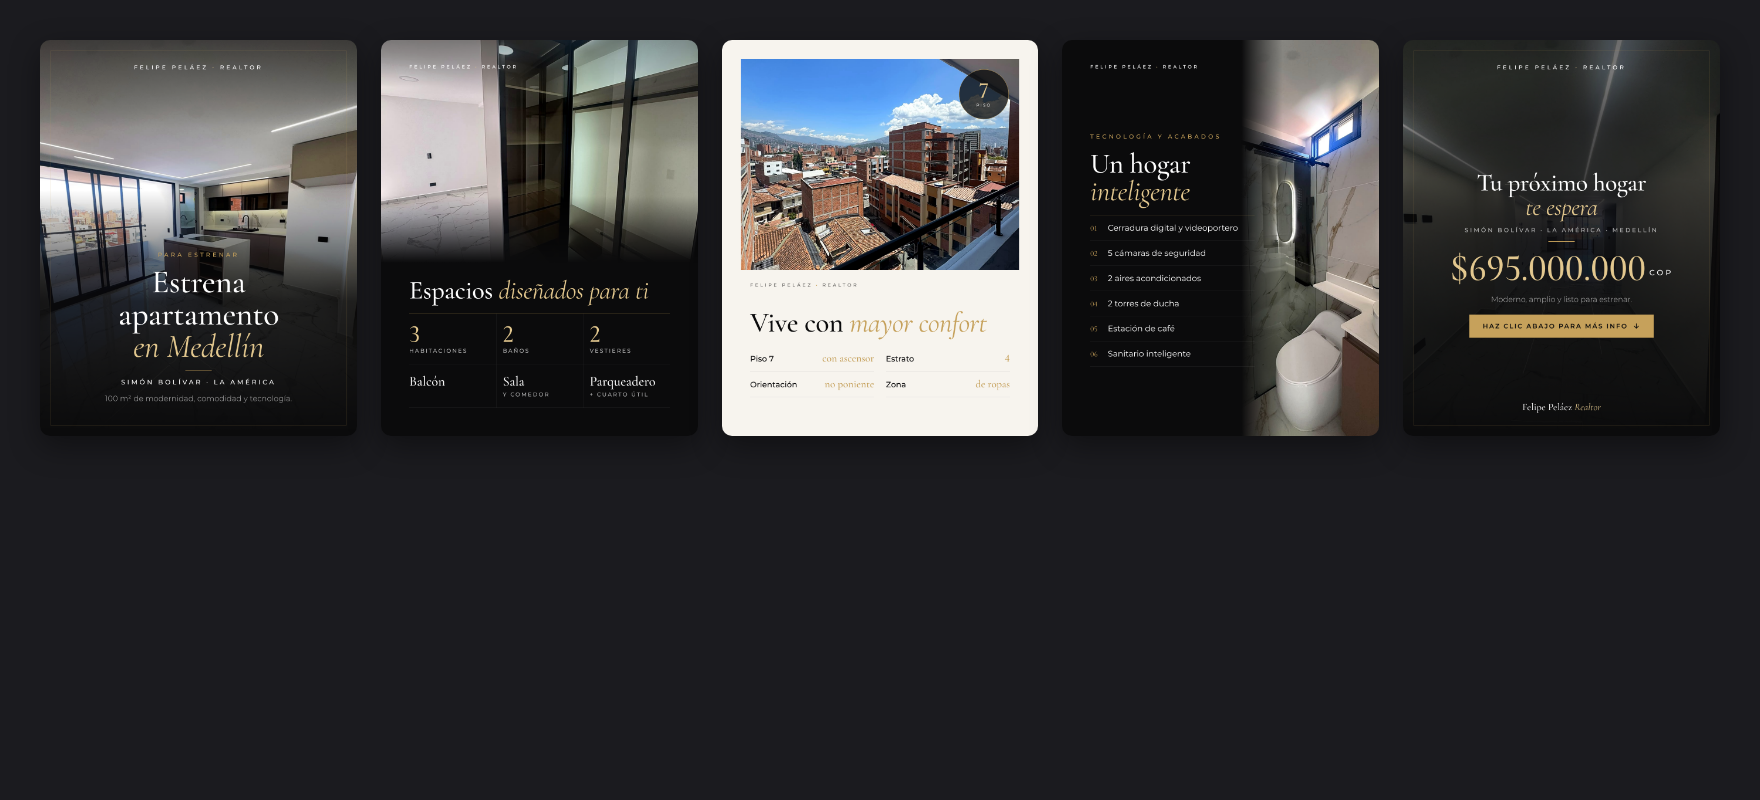
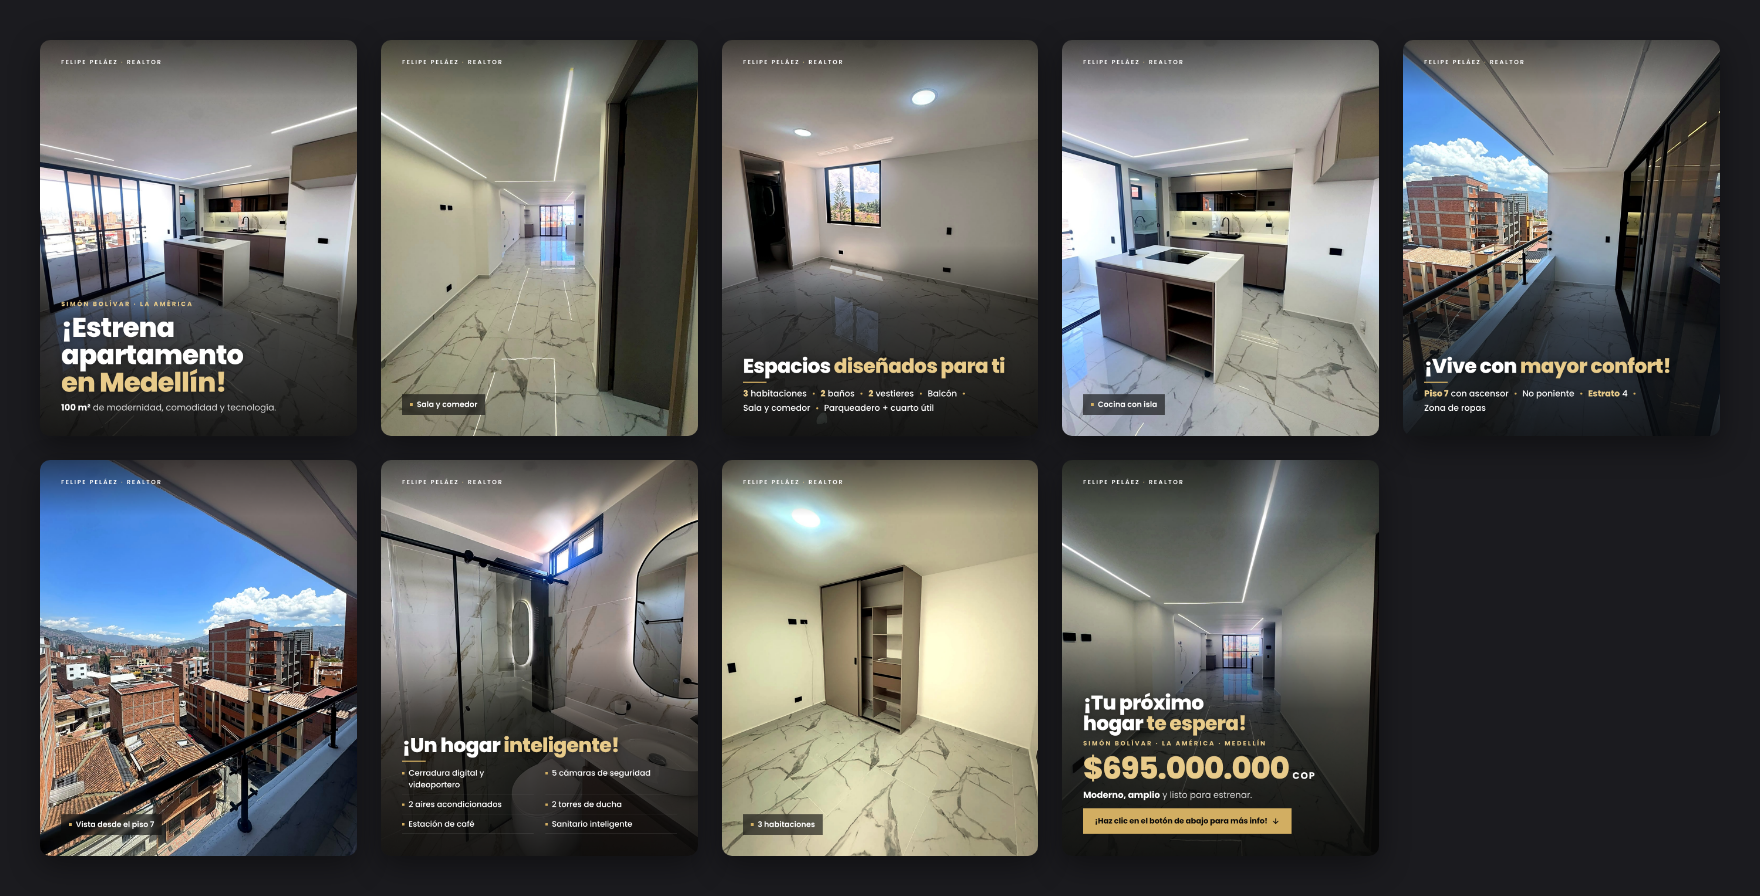
Carrusel de Felipe v2: el apartamento como protagonista
9 slides con fotos a sangre y degradado solo en la franja del texto,
slides de solo foto intercalados, Poppins con negritas y acentos dorados.

Claude-Session: https://claude.ai/code/session_01Ej8Qu3LQLaQzy4gu2zPZyZ

diff --git a/carruseles/proyectos/04-felipe/carrusel.html b/carruseles/proyectos/04-felipe/carrusel.html
@@ -4,200 +4,171 @@
 <meta charset="UTF-8">
 <title>Carrusel ADS · Apartamento Simón Bolívar – La América (Felipe Peláez)</title>
 <!--
-  Brief
-  Cliente: Felipe Peláez, Realtor (marca propia, no la de Raquel)
-  Uso: campaña de ADS en Meta. 5 slides 1080×1350
-  Estilo: minimalista y elegante. Negro, dorado y blanco. Sin iconos ni emojis:
-          jerarquía con tipografía (Cormorant Garamond + Montserrat) y filetes dorados.
-  Fotos: drive/ (24 originales) → img/ (5 elegidas con retoque suave)
+  Brief (versión 2, según comentarios de Raquel)
+  Cliente: Felipe Peláez, Realtor. Campaña de ADS en Meta, 9 slides 1080×1350
+  Regla principal: el apartamento es el protagonista. Fotos a sangre, degradado
+  solo en la franja del texto, slides de solo foto entre los de información.
+  Estilo: negro, dorado y blanco. Poppins con negritas para resaltar. Sin iconos.
+  Orden: lo más impactante primero (cocina, recorrido, sala).
 -->
 <style>
-@font-face { font-family: 'Cormorant'; font-weight: 400; src: url('../../fonts/CormorantGaramond-400.ttf'); }
-@font-face { font-family: 'Cormorant'; font-weight: 500; src: url('../../fonts/CormorantGaramond-500.ttf'); }
-@font-face { font-family: 'Cormorant'; font-weight: 600; src: url('../../fonts/CormorantGaramond-600.ttf'); }
-@font-face { font-family: 'Cormorant'; font-weight: 400; font-style: italic; src: url('../../fonts/CormorantGaramond-400-italic.ttf'); }
-@font-face { font-family: 'Cormorant'; font-weight: 500; font-style: italic; src: url('../../fonts/CormorantGaramond-500-italic.ttf'); }
-@font-face { font-family: 'Montserrat'; font-weight: 300; src: url('../../fonts/Montserrat-300.ttf'); }
-@font-face { font-family: 'Montserrat'; font-weight: 400; src: url('../../fonts/Montserrat-400.ttf'); }
-@font-face { font-family: 'Montserrat'; font-weight: 500; src: url('../../fonts/Montserrat-500.ttf'); }
-@font-face { font-family: 'Montserrat'; font-weight: 600; src: url('../../fonts/Montserrat-600.ttf'); }
+@font-face { font-family: 'Poppins'; font-weight: 400; src: url('../../fonts/Poppins-400.ttf'); }
+@font-face { font-family: 'Poppins'; font-weight: 500; src: url('../../fonts/Poppins-500.ttf'); }
+@font-face { font-family: 'Poppins'; font-weight: 600; src: url('../../fonts/Poppins-600.ttf'); }
+@font-face { font-family: 'Poppins'; font-weight: 700; src: url('../../fonts/Poppins-700.ttf'); }
+@font-face { font-family: 'Poppins'; font-weight: 800; src: url('../../fonts/Poppins-800.ttf'); }
 
-:root {
-  --black: #0B0B0C; --black-2: #141415; --white: #FFFFFF; --ivory: #F7F4EE;
-  --gold: #C6A15B; --gold-2: #E3C88F; --muted-d: rgba(255,255,255,0.68); --muted-l: rgba(11,11,12,0.62);
-  --serif: 'Cormorant', Georgia, serif; --sans: 'Montserrat', system-ui, sans-serif;
-}
+:root { --black: #0A0A0A; --white: #FFFFFF; --gold: #D2AE62; --gold-2: #E8CB8A; --soft: rgba(255,255,255,0.82); }
 * { box-sizing: border-box; margin: 0; padding: 0; }
 html, body { background: #2a2a2e; }
-body { font-family: var(--sans); -webkit-font-smoothing: antialiased; font-variant-numeric: lining-nums; }
-.serif, .spec b, .price, .badge b, .row em, .list li i { font-variant-numeric: lining-nums; }
+body { font-family: 'Poppins', system-ui, sans-serif; -webkit-font-smoothing: antialiased; color: var(--white); }
 .deck { display: flex; width: max-content; }
 body.preview { padding: 40px; }
 body.preview .deck { zoom: 0.36; gap: 30px; }
-.slide { position: relative; width: 1080px; height: 1350px; overflow: hidden; flex: none; background: var(--black); color: var(--white); }
+.slide { position: relative; width: 1080px; height: 1350px; overflow: hidden; flex: none; background: var(--black); }
 
-/* Elementos comunes */
-.photo { position: absolute; overflow: hidden; }
+/* Foto a sangre + degradados mínimos (arriba para la marca, abajo solo donde va el texto) */
+.photo { position: absolute; inset: 0; }
 .photo img { width: 100%; height: 100%; object-fit: cover; display: block; }
-.brand { position: absolute; z-index: 10; font-size: 19px; font-weight: 500; letter-spacing: 0.42em; text-transform: uppercase; }
-.brand b { font-weight: 600; color: var(--gold-2); }
-.kicker { font-size: 20px; font-weight: 500; letter-spacing: 0.4em; text-transform: uppercase; color: var(--gold); }
-.serif { font-family: var(--serif); font-weight: 500; line-height: 0.98; letter-spacing: -0.01em; }
-.serif { text-wrap: balance; }
-.serif i { font-style: italic; font-weight: 400; color: var(--gold-2); }
-.rule { width: 90px; height: 1.5px; background: var(--gold); }
-.content { position: absolute; z-index: 10; display: flex; flex-direction: column; }
-.frame { position: absolute; z-index: 9; inset: 36px; border: 1px solid rgba(198,161,91,0.45); pointer-events: none; }
+.slide::before { content: ''; position: absolute; left: 0; right: 0; top: 0; height: 190px; z-index: 2;
+  background: linear-gradient(180deg, rgba(10,10,10,0.55) 0%, rgba(10,10,10,0) 100%); }
+.band { position: absolute; left: 0; right: 0; bottom: 0; z-index: 2;
+  background: linear-gradient(180deg, rgba(10,10,10,0) 0%, rgba(10,10,10,0.62) 34%, rgba(10,10,10,0.88) 100%); }
 
-/* 1 · PORTADA */
-.s1 .photo { inset: 0; }
-.s1 .photo::after { content: ''; position: absolute; inset: 0;
-  background: linear-gradient(180deg, rgba(11,11,12,0.55) 0%, rgba(11,11,12,0) 22%, rgba(11,11,12,0) 38%, rgba(11,11,12,0.86) 66%, #0B0B0C 100%); }
-.s1 .brand { top: 82px; left: 0; right: 0; text-align: center; }
-.s1 .content { left: 96px; right: 96px; bottom: 112px; gap: 26px; align-items: center; text-align: center; }
-.s1 h1 { font-size: 112px; }
-.s1 .loc { font-size: 22px; font-weight: 500; letter-spacing: 0.32em; text-transform: uppercase; }
-.s1 .desc { font-size: 26px; font-weight: 300; color: var(--muted-d); letter-spacing: 0.01em; }
-.s1 .m2 { display: flex; align-items: baseline; gap: 10px; font-family: var(--serif); color: var(--gold-2); font-size: 40px; }
+.brand { position: absolute; z-index: 5; top: 60px; left: 72px; font-size: 20px; font-weight: 600; letter-spacing: 0.24em; text-transform: uppercase; }
+.brand span { color: var(--gold-2); }
 
-/* 2 · CARACTERÍSTICAS */
-.s2 .photo { left: 0; right: 0; top: 0; height: 760px; }
-.s2 .photo::after { content: ''; position: absolute; inset: 0; background: linear-gradient(180deg, rgba(11,11,12,0.35) 0%, transparent 25%, transparent 70%, #0B0B0C 100%); }
-.s2 .brand { top: 82px; left: 96px; font-size: 16px; }
-.s2 .content { left: 96px; right: 96px; top: 640px; bottom: 96px; gap: 36px; justify-content: flex-end; }
-.s2 h2 { font-size: 88px; }
-.specs { display: grid; grid-template-columns: repeat(3, 1fr); border-top: 1px solid rgba(198,161,91,0.45); }
-.spec { padding: 32px 18px 30px 0; border-bottom: 1px solid rgba(255,255,255,0.10); display: flex; flex-direction: column; gap: 6px; }
-.spec:nth-child(3n+2), .spec:nth-child(3n+3) { padding-left: 22px; border-left: 1px solid rgba(255,255,255,0.10); }
-.spec b { font-family: var(--serif); font-weight: 500; font-size: 84px; line-height: 0.9; color: var(--gold-2); }
-.spec b.w { font-size: 46px; line-height: 1.1; color: var(--white); }
-.spec span { font-size: 19px; font-weight: 500; letter-spacing: 0.22em; text-transform: uppercase; color: var(--muted-d); line-height: 1.5; }
+.content { position: absolute; z-index: 5; left: 72px; right: 72px; bottom: 76px; display: flex; flex-direction: column; gap: 18px; }
+.label { font-size: 21px; font-weight: 700; letter-spacing: 0.26em; text-transform: uppercase; color: var(--gold-2); }
+h1, h2 { font-weight: 800; letter-spacing: -0.025em; line-height: 1.02; text-wrap: balance; text-shadow: 0 2px 24px rgba(0,0,0,0.35); }
+h1 { font-size: 92px; }
+h2 { font-size: 68px; }
+h1 em, h2 em { font-style: normal; color: var(--gold-2); }
+.line { width: 80px; height: 4px; background: var(--gold); }
+.lead { font-size: 30px; font-weight: 400; color: var(--soft); line-height: 1.4; }
+.lead b { color: var(--white); font-weight: 700; }
 
-/* 3 · UBICACIÓN (blanco) */
-.s3 { background: var(--ivory); color: var(--black); }
-.s3 .photo { left: 64px; right: 64px; top: 64px; height: 720px; }
-.s3 .brand { top: 826px; left: 96px; font-size: 16px; color: var(--muted-l); }
-.s3 .brand b { color: var(--gold); }
-.s3 .content { left: 96px; right: 96px; top: 880px; bottom: 96px; gap: 30px; justify-content: center; }
-.s3 h2 { font-size: 96px; }
-.s3 h2 i { color: var(--gold); }
-.rows { display: grid; grid-template-columns: 1fr 1fr; column-gap: 40px; }
-.row { display: flex; justify-content: space-between; align-items: baseline; padding: 22px 0; border-bottom: 1px solid rgba(11,11,12,0.14); font-size: 27px; font-weight: 500; }
-.row em { font-style: normal; font-family: var(--serif); font-size: 36px; color: var(--gold); }
-.badge { position: absolute; z-index: 11; right: 100px; top: 100px; width: 170px; height: 170px; border-radius: 50%; background: rgba(11,11,12,0.78);
-  border: 1px solid var(--gold); display: flex; flex-direction: column; align-items: center; justify-content: center; color: var(--white); }
-.badge b { font-family: var(--serif); font-weight: 500; font-size: 78px; line-height: 0.85; color: var(--gold-2); }
-.badge span { font-size: 14px; letter-spacing: 0.3em; text-transform: uppercase; margin-top: 8px; }
+/* Lista en línea con separadores dorados */
+.items { display: flex; flex-wrap: wrap; gap: 12px 0; font-size: 29px; font-weight: 500; line-height: 1.3; }
+.items span { display: inline-flex; align-items: center; white-space: nowrap; }
+.items span:not(:last-child)::after { content: ''; width: 7px; height: 7px; border-radius: 50%; background: var(--gold); margin: 0 20px; }
+.items b { font-weight: 800; color: var(--gold-2); margin-right: 8px; }
+.grid2 { display: grid; grid-template-columns: 1fr 1fr; gap: 14px 40px; font-size: 27px; font-weight: 500; }
+.grid2 div { display: flex; gap: 14px; align-items: baseline; padding-bottom: 12px; border-bottom: 1px solid rgba(255,255,255,0.18); }
+.grid2 div::before { content: ''; flex: none; width: 8px; height: 8px; background: var(--gold); transform: translateY(-4px); }
 
-/* 4 · TECNOLOGÍA */
-.s4 .photo { right: 0; top: 0; bottom: 0; width: 470px; }
-.s4 .photo::after { content: ''; position: absolute; inset: 0; background: linear-gradient(90deg, #0B0B0C 0%, rgba(11,11,12,0) 30%); }
-.s4 .brand { top: 82px; left: 96px; font-size: 16px; }
-.s4 .content { left: 96px; width: 560px; top: 200px; bottom: 120px; gap: 34px; justify-content: center; }
-.s4 h2 { font-size: 96px; }
-.list { list-style: none; display: flex; flex-direction: column; border-top: 1px solid rgba(198,161,91,0.45); }
-.list li { display: grid; grid-template-columns: 60px 1fr; align-items: baseline; padding: 24px 0; border-bottom: 1px solid rgba(255,255,255,0.10); font-size: 28px; font-weight: 400; line-height: 1.3; }
-.list li i { font-style: normal; font-family: var(--serif); font-size: 26px; color: var(--gold); }
+/* Slides de solo foto: etiqueta discreta */
+.caption { position: absolute; z-index: 5; left: 72px; bottom: 72px; display: inline-flex; align-items: center; gap: 14px;
+  padding: 16px 26px; background: rgba(10,10,10,0.62); backdrop-filter: blur(6px); font-size: 26px; font-weight: 600; }
+.caption::before { content: ''; width: 10px; height: 10px; background: var(--gold); }
 
-/* 5 · PRECIO + CTA */
-.s5 .photo { inset: 0; }
-.s5 .photo::after { content: ''; position: absolute; inset: 0; background: radial-gradient(ellipse 75% 45% at 50% 52%, rgba(11,11,12,0.78) 0%, rgba(11,11,12,0.45) 70%, transparent 100%), linear-gradient(180deg, rgba(11,11,12,0.6) 0%, rgba(11,11,12,0.4) 35%, rgba(11,11,12,0.82) 72%, #0B0B0C 100%); }
-.s5 .brand { top: 82px; left: 0; right: 0; text-align: center; }
-.s5 .content { left: 96px; right: 96px; top: 230px; bottom: 120px; gap: 26px; align-items: center; text-align: center; justify-content: center; }
-.s5 h2 { font-size: 84px; }
-.s5 .loc { font-size: 20px; font-weight: 500; letter-spacing: 0.3em; text-transform: uppercase; color: var(--muted-d); }
-.price { font-family: var(--serif); font-weight: 500; font-size: 128px; line-height: 1; color: var(--gold-2); letter-spacing: -0.01em; }
-.price small { font-family: var(--sans); font-size: 26px; font-weight: 500; letter-spacing: 0.3em; color: var(--white); margin-left: 12px; vertical-align: middle; }
-.s5 .desc { font-size: 26px; font-weight: 300; color: var(--muted-d); }
-.cta { margin-top: 10px; display: inline-flex; align-items: center; gap: 16px; padding: 26px 46px; background: var(--gold); color: var(--black);
-  font-size: 22px; font-weight: 600; letter-spacing: 0.18em; text-transform: uppercase; }
-.cta svg { width: 26px; height: 26px; }
-.sign { position: absolute; z-index: 10; left: 0; right: 0; bottom: 78px; text-align: center; font-family: var(--serif); font-size: 34px; }
-.sign i { font-style: italic; color: var(--gold-2); }
+/* Precio */
+.price { font-size: 104px; font-weight: 800; line-height: 1; letter-spacing: -0.03em; color: var(--gold-2); }
+.price small { font-size: 32px; font-weight: 700; color: var(--white); letter-spacing: 0.1em; margin-left: 12px; }
+.cta { align-self: flex-start; margin-top: 6px; display: inline-flex; align-items: center; gap: 14px; padding: 24px 40px; background: var(--gold); color: var(--black); font-size: 26px; font-weight: 700; }
+.cta svg { width: 28px; height: 28px; }
 </style>
 </head>
 <body>
 <main class="deck">
 
-  <!-- 1 · PORTADA -->
-  <section class="slide s1" data-chrome="off" data-progress="off">
-    <div class="photo"><img src="img/portada.jpg" alt="" style="object-position:40% 60%"></div>
-    <div class="frame"></div>
-    <div class="brand">Felipe Peláez <b>·</b> Realtor</div>
+  <!-- 1 · PORTADA: la cocina, lo más impactante -->
+  <section class="slide" data-chrome="off" data-progress="off">
+    <div class="photo"><img src="img/cocina.jpg" alt="" style="object-position:45% 55%"></div>
+    <div class="band" style="height:46%"></div>
+    <div class="brand">Felipe Peláez <span>·</span> Realtor</div>
     <div class="content">
-      <span class="kicker">Para estrenar</span>
-      <h1 class="serif">Estrena apartamento <i>en Medellín</i></h1>
-      <div class="rule"></div>
-      <p class="loc">Simón Bolívar · La América</p>
-      <p class="desc">100 m² de modernidad, comodidad y tecnología.</p>
+      <span class="label">Simón Bolívar · La América</span>
+      <h1>¡Estrena apartamento <em>en Medellín!</em></h1>
+      <p class="lead"><b>100 m²</b> de modernidad, comodidad y tecnología.</p>
     </div>
   </section>
 
-  <!-- 2 · CARACTERÍSTICAS -->
-  <section class="slide s2" data-chrome="off" data-progress="off">
-    <div class="photo"><img src="img/vestier.jpg" alt="" style="object-position:50% 45%"></div>
-    <div class="brand">Felipe Peláez <b>·</b> Realtor</div>
+  <!-- 2 · SOLO FOTO: recorrido -->
+  <section class="slide" data-chrome="off" data-progress="off">
+    <div class="photo"><img src="img/recorrido.jpg" alt="" style="object-position:50% 60%"></div>
+    <div class="brand">Felipe Peláez <span>·</span> Realtor</div>
+    <div class="caption">Sala y comedor</div>
+  </section>
+
+  <!-- 3 · CARACTERÍSTICAS -->
+  <section class="slide" data-chrome="off" data-progress="off">
+    <div class="photo"><img src="img/habitacion.jpg" alt="" style="object-position:50% 50%"></div>
+    <div class="band" style="height:48%"></div>
+    <div class="brand">Felipe Peláez <span>·</span> Realtor</div>
     <div class="content">
-      <h2 class="serif">Espacios <i>diseñados para ti</i></h2>
-      <div class="specs">
-        <div class="spec"><b>3</b><span>Habitaciones</span></div>
-        <div class="spec"><b>2</b><span>Baños</span></div>
-        <div class="spec"><b>2</b><span>Vestieres</span></div>
-        <div class="spec"><b class="w">Balcón</b><span>&nbsp;</span></div>
-        <div class="spec"><b class="w">Sala</b><span>y comedor</span></div>
-        <div class="spec"><b class="w">Parqueadero</b><span>+ cuarto útil</span></div>
+      <h2>Espacios <em>diseñados para ti</em></h2>
+      <div class="line"></div>
+      <div class="items">
+        <span><b>3</b>habitaciones</span><span><b>2</b>baños</span><span><b>2</b>vestieres</span>
+        <span>Balcón</span><span>Sala y comedor</span><span>Parqueadero + cuarto útil</span>
       </div>
     </div>
   </section>
 
-  <!-- 3 · UBICACIÓN Y COMODIDAD -->
-  <section class="slide s3" data-chrome="off" data-progress="off">
-    <div class="photo"><img src="img/vista.jpg" alt="" style="object-position:50% 55%"></div>
-    <div class="badge"><b>7</b><span>Piso</span></div>
-    <div class="brand">Felipe Peláez <b>·</b> Realtor</div>
+  <!-- 4 · SOLO FOTO: cocina, otro ángulo -->
+  <section class="slide" data-chrome="off" data-progress="off">
+    <div class="photo"><img src="img/cocina2.jpg" alt="" style="object-position:50% 55%"></div>
+    <div class="brand">Felipe Peláez <span>·</span> Realtor</div>
+    <div class="caption">Cocina con isla</div>
+  </section>
+
+  <!-- 5 · UBICACIÓN Y COMODIDAD -->
+  <section class="slide" data-chrome="off" data-progress="off">
+    <div class="photo"><img src="img/balcon.jpg" alt="" style="object-position:40% 50%"></div>
+    <div class="band" style="height:44%"></div>
+    <div class="brand">Felipe Peláez <span>·</span> Realtor</div>
     <div class="content">
-      <h2 class="serif">Vive con <i>mayor confort</i></h2>
-      <div class="rows">
-        <div class="row">Piso 7 <em>con ascensor</em></div>
-        <div class="row">Estrato <em>4</em></div>
-        <div class="row">Orientación <em>no poniente</em></div>
-        <div class="row">Zona <em>de ropas</em></div>
+      <h2>¡Vive con <em>mayor confort!</em></h2>
+      <div class="line"></div>
+      <div class="items">
+        <span><b>Piso 7</b>con ascensor</span><span>No poniente</span><span><b>Estrato</b>4</span><span>Zona de ropas</span>
       </div>
     </div>
   </section>
 
-  <!-- 4 · TECNOLOGÍA Y ACABADOS -->
-  <section class="slide s4" data-chrome="off" data-progress="off">
-    <div class="photo"><img src="img/bano.jpg" alt="" style="object-position:55% 50%"></div>
-    <div class="brand">Felipe Peláez <b>·</b> Realtor</div>
+  <!-- 6 · SOLO FOTO: vista -->
+  <section class="slide" data-chrome="off" data-progress="off">
+    <div class="photo"><img src="img/vista.jpg" alt="" style="object-position:55% 50%"></div>
+    <div class="brand">Felipe Peláez <span>·</span> Realtor</div>
+    <div class="caption">Vista desde el piso 7</div>
+  </section>
+
+  <!-- 7 · TECNOLOGÍA Y ACABADOS -->
+  <section class="slide" data-chrome="off" data-progress="off">
+    <div class="photo"><img src="img/bano.jpg" alt="" style="object-position:50% 40%"></div>
+    <div class="band" style="height:52%"></div>
+    <div class="brand">Felipe Peláez <span>·</span> Realtor</div>
     <div class="content">
-      <span class="kicker">Tecnología y acabados</span>
-      <h2 class="serif">Un hogar <i>inteligente</i></h2>
-      <ul class="list">
-        <li><i>01</i>Cerradura digital y videoportero</li>
-        <li><i>02</i>5 cámaras de seguridad</li>
-        <li><i>03</i>2 aires acondicionados</li>
-        <li><i>04</i>2 torres de ducha</li>
-        <li><i>05</i>Estación de café</li>
-        <li><i>06</i>Sanitario inteligente</li>
-      </ul>
+      <h2>¡Un hogar <em>inteligente!</em></h2>
+      <div class="line"></div>
+      <div class="grid2">
+        <div>Cerradura digital y videoportero</div><div>5 cámaras de seguridad</div>
+        <div>2 aires acondicionados</div><div>2 torres de ducha</div>
+        <div>Estación de café</div><div>Sanitario inteligente</div>
+      </div>
     </div>
   </section>
 
-  <!-- 5 · PRECIO Y CTA -->
-  <section class="slide s5" data-chrome="off" data-progress="off">
-    <div class="photo"><img src="img/pasillo.jpg" alt="" style="object-position:50% 50%"></div>
-    <div class="frame"></div>
-    <div class="brand">Felipe Peláez <b>·</b> Realtor</div>
+  <!-- 8 · SOLO FOTO: habitación -->
+  <section class="slide" data-chrome="off" data-progress="off">
+    <div class="photo"><img src="img/habitacion2.jpg" alt="" style="object-position:50% 55%"></div>
+    <div class="brand">Felipe Peláez <span>·</span> Realtor</div>
+    <div class="caption">3 habitaciones</div>
+  </section>
+
+  <!-- 9 · PRECIO Y CTA -->
+  <section class="slide" data-chrome="off" data-progress="off">
+    <div class="photo"><img src="img/recorrido2.jpg" alt="" style="object-position:50% 55%"></div>
+    <div class="band" style="height:56%"></div>
+    <div class="brand">Felipe Peláez <span>·</span> Realtor</div>
     <div class="content">
-      <h2 class="serif">Tu próximo hogar<br><i>te espera</i></h2>
-      <p class="loc">Simón Bolívar · La América · Medellín</p>
-      <div class="rule"></div>
+      <h2>¡Tu próximo hogar <em>te espera!</em></h2>
+      <span class="label">Simón Bolívar · La América · Medellín</span>
       <p class="price">$695.000.000<small>COP</small></p>
-      <p class="desc">Moderno, amplio y listo para estrenar.</p>
-      <span class="cta">Haz clic abajo para más info<svg viewBox="0 0 24 24" fill="none" stroke="currentColor" stroke-width="2.2" stroke-linecap="round" stroke-linejoin="round"><path d="M12 5v14M5 12l7 7 7-7"/></svg></span>
+      <p class="lead"><b>Moderno, amplio</b> y listo para estrenar.</p>
+      <span class="cta">¡Haz clic en el botón de abajo para más info!<svg viewBox="0 0 24 24" fill="none" stroke="currentColor" stroke-width="2.4" stroke-linecap="round" stroke-linejoin="round"><path d="M12 5v14M5 12l7 7 7-7"/></svg></span>
     </div>
-    <div class="sign">Felipe Peláez <i>Realtor</i></div>
   </section>
 
 </main>
